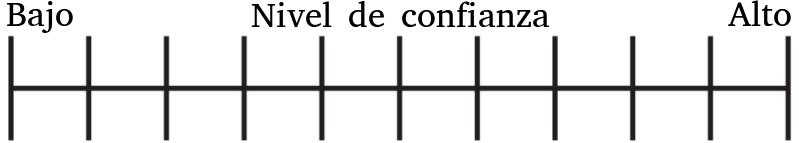
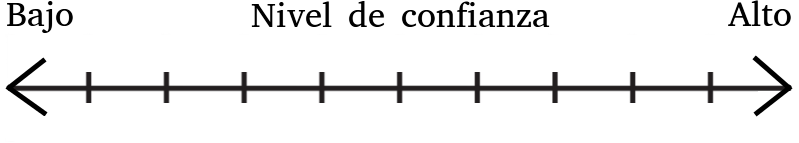
Hice un par de cambios menore sincluyendo el update de la imagen con que se mide confianza.

diff --git a/core/src/com/turin/tur/Visound.java b/core/src/com/turin/tur/Visound.java
@@ -30,6 +30,7 @@ public class Visound extends Game {
 	public Session session;
 	public static float volumen = 0.5f;
 	public boolean sendingData;
+	private TipoDeAplicacion tipoDeAplicacion = TipoDeAplicacion.Test;
 	
 	@Override
 	public void create () {
@@ -41,20 +42,23 @@ public class Visound extends Game {
 		
 		// Create the experiment class
 		
-		//Version tutorial
-		//exps.add(new Tutorial());
-		//exps.add(new UmbralAngulosTutorial());
-		//exps.add(new UmbralParalelismoTutorial());
+		if (tipoDeAplicacion == TipoDeAplicacion.Tutorial) {
+			exps.add(new Tutorial());
+			exps.add(new UmbralAngulosTutorial());
+			exps.add(new UmbralParalelismoTutorial());
+		}
 		
-		// Version test
-		exps.add(new UmbralParalelismoTest());
-		exps.add(new UmbralAngulosTest());
+		if (tipoDeAplicacion == TipoDeAplicacion.Test) {
+			exps.add(new UmbralParalelismoTest());
+			exps.add(new UmbralAngulosTest());
+		}
 		
+		if (tipoDeAplicacion == TipoDeAplicacion.Entrenamiento) {
+			exps.add(new UmbralParalelismoTrainingFeedbackInicial());
+			exps.add(new UmbralParalelismoTrainingNoFeedback());
+			exps.add(new UmbralParalelismoTrainingFeedbackFinal());
+		}
 		
-		// Version entrenamiento
-		//exps.add(new UmbralParalelismoTrainingFeedbackInicial());
-		//exps.add(new UmbralParalelismoTrainingNoFeedback());
-		//exps.add(new UmbralParalelismoTrainingFeedbackFinal());
 		
 		if ((buildResources) & (Gdx.app.getType() == ApplicationType.Desktop)) {
 			
@@ -64,9 +68,14 @@ public class Visound extends Game {
 
 		// Inicializa la session y el juego
 		this.session = new Session();
+		this.session.tipoDeAplicacion = this.tipoDeAplicacion;
 		for (Experiment exp : this.exps) {
 			exp.initGame(this.session);
 		}
 		setScreen(new MenuScreen(this));
 	}	
+	
+	public enum TipoDeAplicacion {
+		Tutorial, Test, Entrenamiento
+	}
 }

diff --git a/core/src/com/turin/tur/main/diseno/Session.java b/core/src/com/turin/tur/main/diseno/Session.java
@@ -5,6 +5,7 @@ import com.badlogic.gdx.Gdx;
 import com.badlogic.gdx.files.FileHandle;
 import com.badlogic.gdx.utils.Json;
 import com.badlogic.gdx.utils.TimeUtils;
+import com.turin.tur.Visound.TipoDeAplicacion;
 import com.turin.tur.main.util.Constants;
 import com.turin.tur.main.util.FileHelper;
 import com.turin.tur.main.util.Internet;
@@ -20,6 +21,7 @@ public class Session {
 	// public int levelVersion = Builder.levelVersionFinal;
 	public int resourcesVersion = Builder.ResourceVersion;
 	public ApplicationType plataforma = Gdx.app.getType();
+	public TipoDeAplicacion tipoDeAplicacion;
 
 	public Session() {
 		this.userId = userId();
